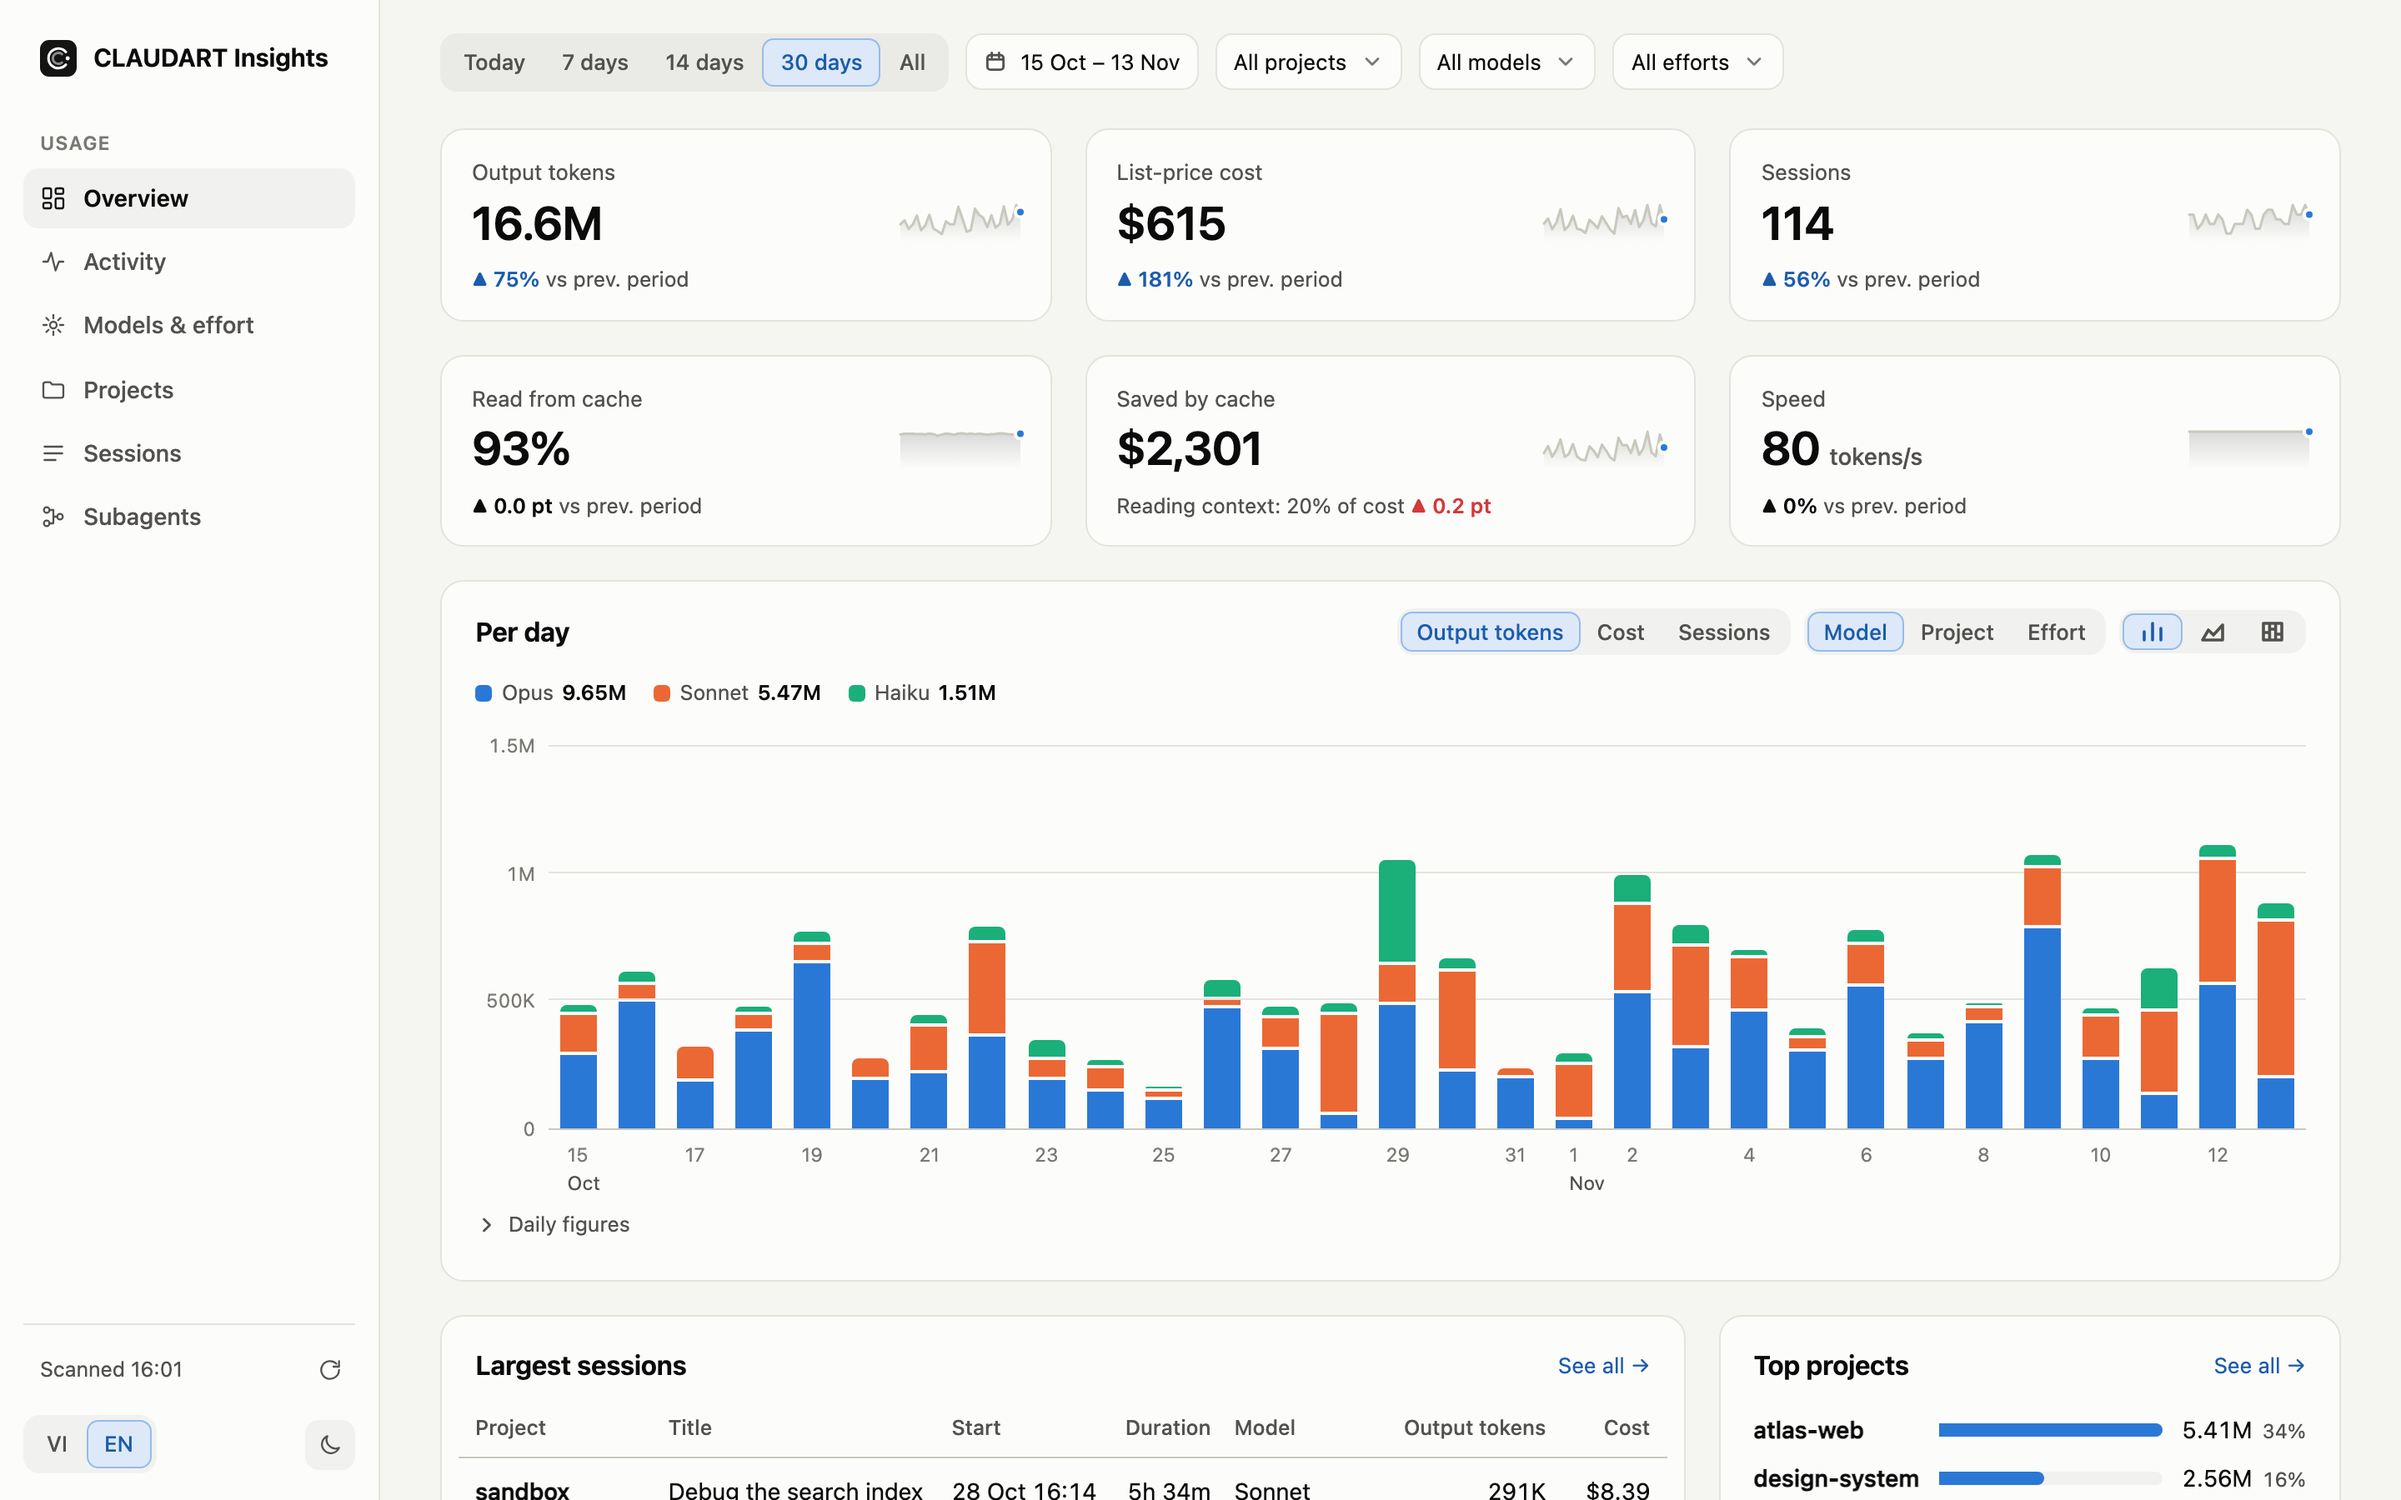
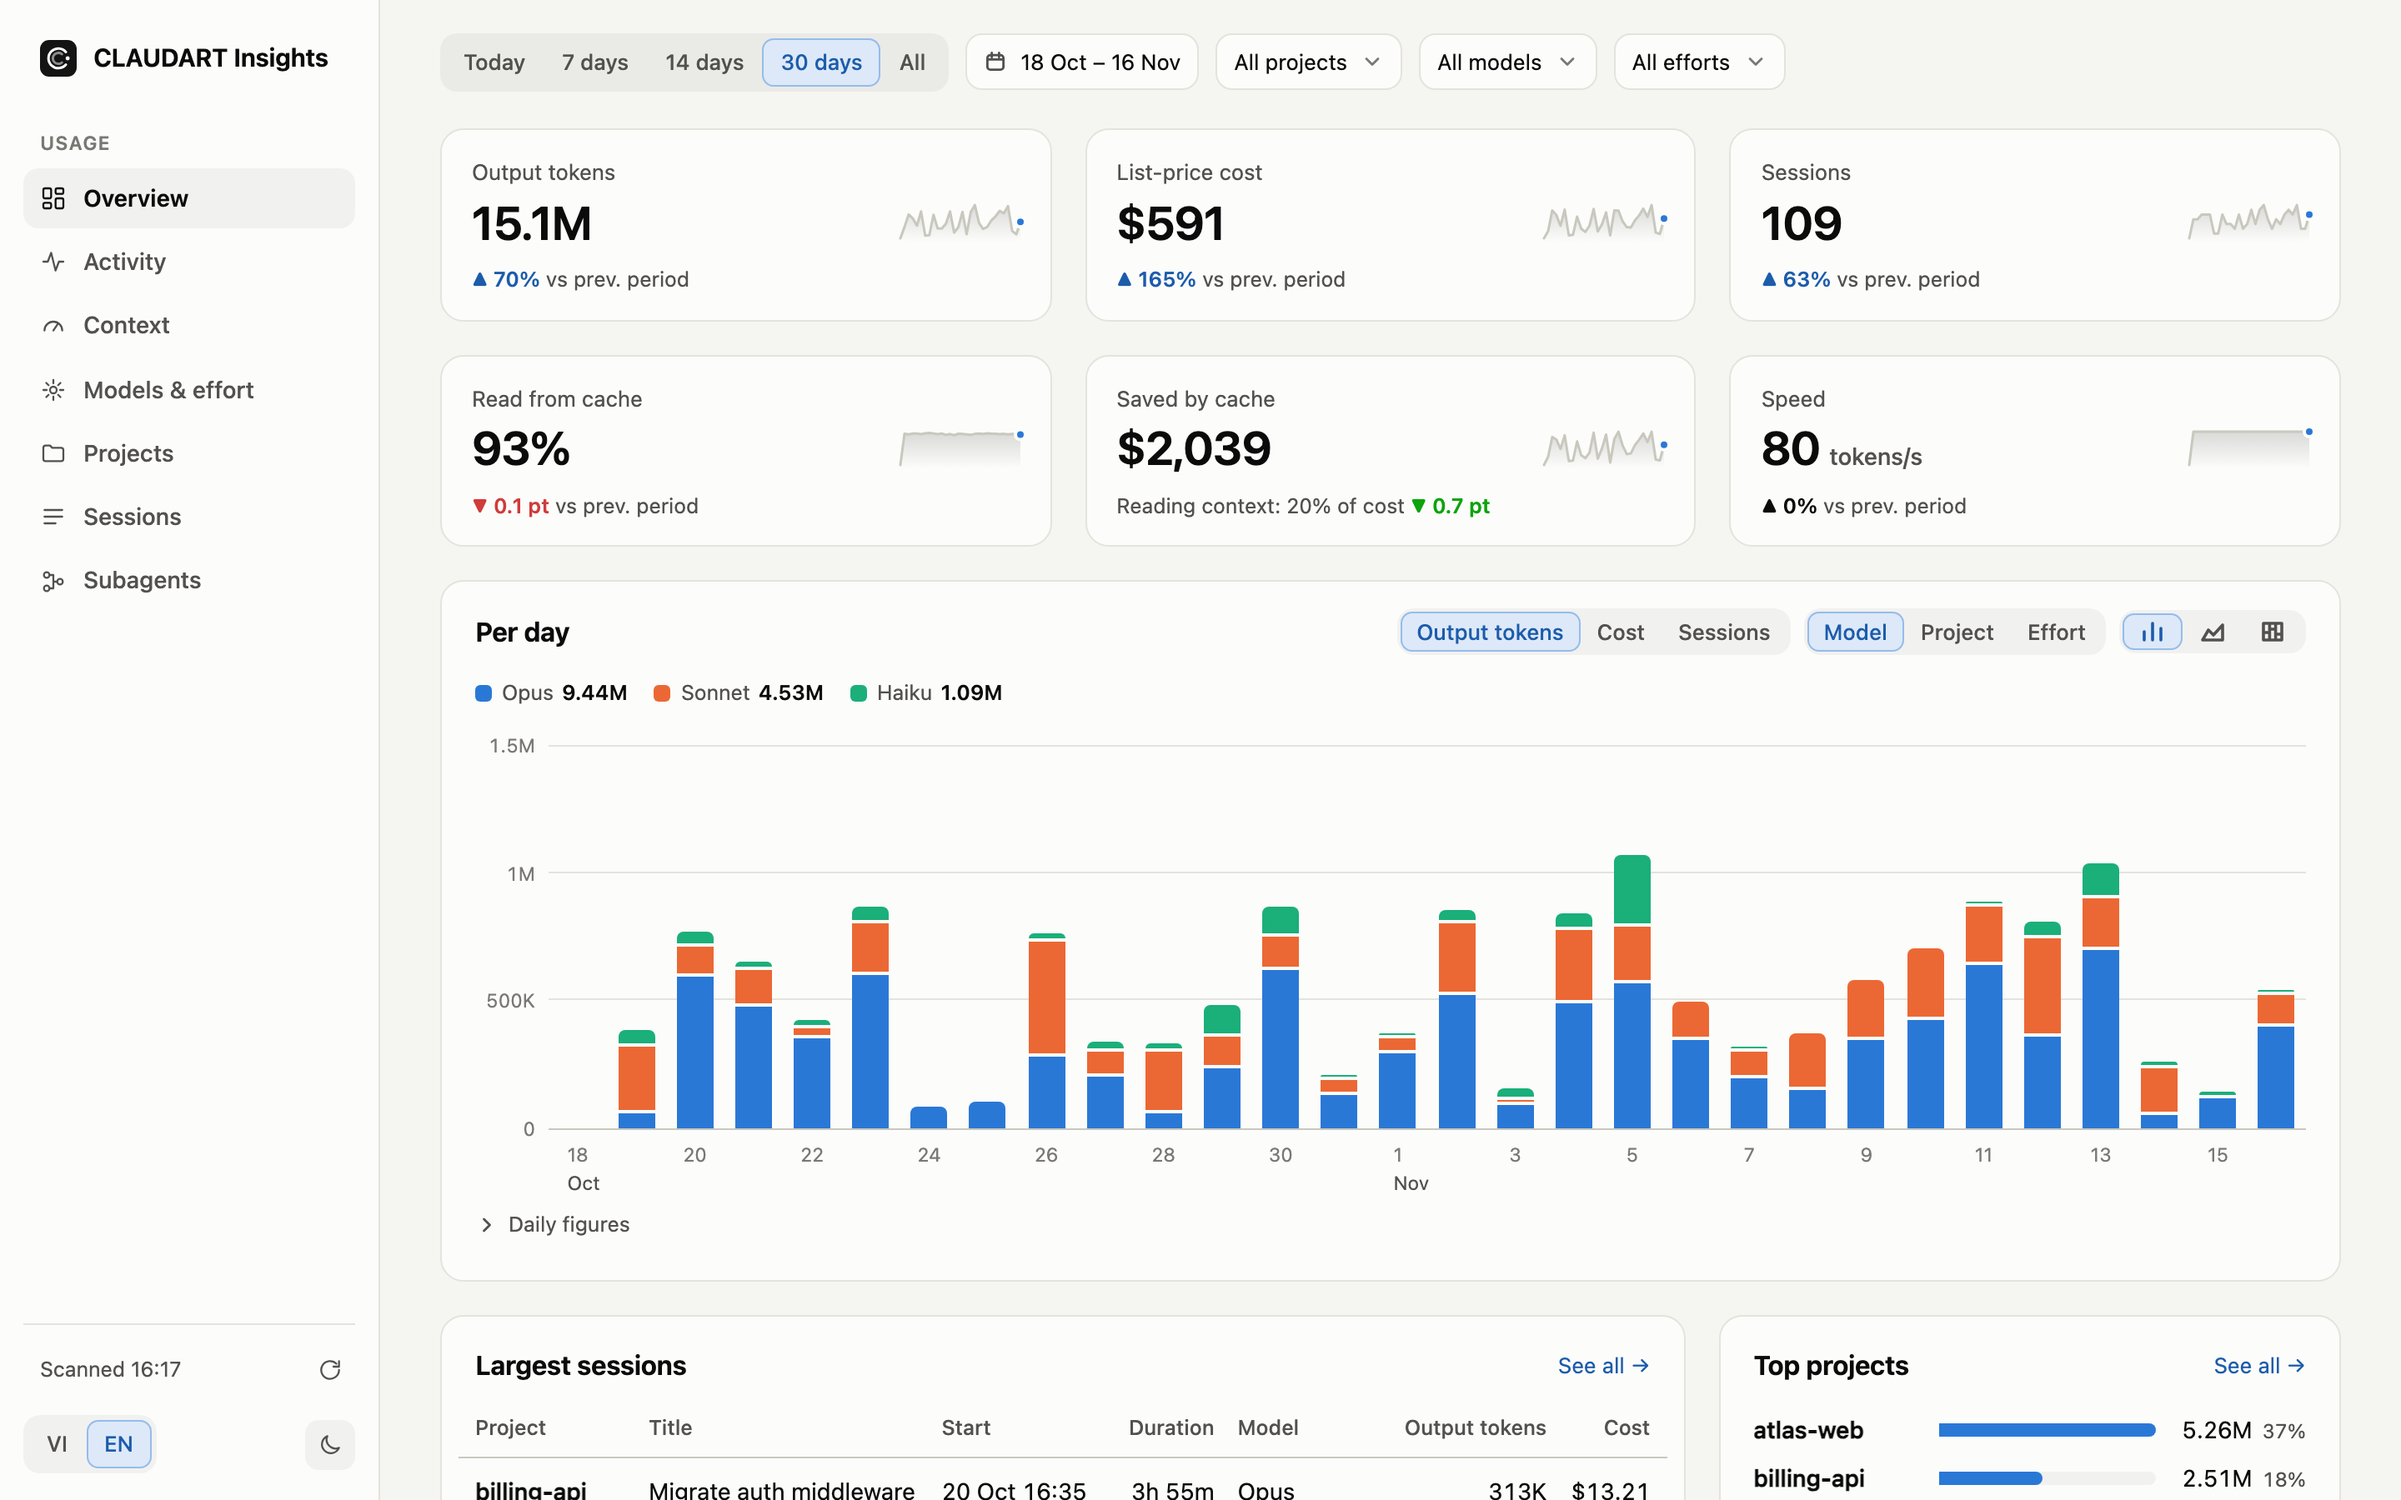
docs: describe the Context view and retake the README images
The demo now writes compaction boundaries and the hidden summary
requests, so make demo and make screenshots show the Context view.

diff --git a/README_VI.md b/README_VI.md
@@ -13,7 +13,7 @@
 
 <p align="center"><sub>Mọi con số trên trang này là dữ liệu demo bịa ra, do <code>make demo</code> phục vụ.</sub></p>
 
-Insights lưu trữ transcript mà Claude Code giữ trong `~/.claude/projects`, nạp vào SQLite và tính giá từng request. Sáu màn hình trả lời những gì con số tổng che đi: dự án nào tốn nhất, phiên nào kéo dài, model và subagent nào làm phần việc, và lúc nào prompt cache bị dựng lại vô ích.
+Insights lưu trữ transcript mà Claude Code giữ trong `~/.claude/projects`, nạp vào SQLite và tính giá từng request. Bảy màn hình trả lời những gì con số tổng che đi: dự án nào tốn nhất, phiên nào kéo dài, model và subagent nào làm phần việc, lúc nào prompt cache bị dựng lại vô ích, và context dài tốn bao nhiêu.
 
 Không có gì rời khỏi máy bạn. Server chỉ lắng nghe trên `127.0.0.1`, server và trang web đều không gửi request ra ngoài.
 
@@ -26,6 +26,15 @@ Mỗi lần prompt cache bị dựng lại tốn bao nhiêu và vì sao: phiên 
 <picture>
   <source media="(prefers-color-scheme: dark)" srcset="docs/assets/cache-dark.png">
   <img src="docs/assets/cache-light.png" alt="Số lần cache bị dựng lại theo nguyên nhân, kèm chi phí thêm">
+</picture>
+
+### Context
+
+Mỗi lần nén context tốn bao nhiêu, đọc lại context ở từng cỡ tốn bao nhiêu, và cùng phần việc đó sẽ tốn bao nhiêu nếu nén ở mốc khác.
+
+<picture>
+  <source media="(prefers-color-scheme: dark)" srcset="docs/assets/context-dark.png">
+  <img src="docs/assets/context-light.png" alt="Các phiên được chạy lại với mốc nén khác, so với mốc nén hiện tại">
 </picture>
 
 ### Dự án
@@ -127,7 +136,7 @@ Chi phí tính theo giá niêm yết. Với gói thuê bao, đó là hạn mức
 <details>
 <summary><b>Cache bị dựng lại</b></summary>
 
-Claude Code giữ cuộc trò chuyện trong prompt cache, nên phần lớn input token là lần đọc rẻ. Thứ tốn tiền là lần dựng lại: một request ghi phần lớn context vào cache lần nữa, đắt gấp 25 đến 40 lần đọc cache. Một request được tính là dựng lại khi ghi ít nhất 20.000 token vào cache và hơn một nửa tổng số token nó đọc hoặc ghi. Màn hình Hoạt động và lệnh `usage` đếm theo từng nguyên nhân:
+Claude Code giữ cuộc trò chuyện trong prompt cache, nên phần lớn input token là lần đọc rẻ. Thứ tốn tiền là lần dựng lại: một request ghi phần lớn context vào cache lần nữa, đắt gấp 25 đến 40 lần đọc cache. Một request được tính là dựng lại khi ghi ít nhất 20.000 token vào cache và hơn một nửa tổng số token nó đọc hoặc ghi, hoặc khi là request đầu tiên của luồng sau một lần nén context và ghi ít nhất 20.000 token. Màn hình Hoạt động và lệnh `usage` đếm theo từng nguyên nhân:
 
 | Nguyên nhân | Ý nghĩa |
 | --- | --- |
@@ -139,6 +148,19 @@ Claude Code giữ cuộc trò chuyện trong prompt cache, nên phần lớn inp
 Chi phí thêm của một lần dựng lại là số token được ghi lại tính theo giá ghi cache (5m và 1h như đã ghi nhận) trừ đi chính số token đó tính theo giá đọc cache, theo dòng giá hiệu lực trong ngày. Màn hình Phiên làm việc ghi số lần dựng lại sau khi nghỉ của mỗi phiên, là số lần cache hết hạn, dưới tiêu đề phiên.
 
 Không thể giải thích `khác` từ transcript. Ngưỡng 20.000 token và một nửa là quy ước cố định, không phải số Claude Code báo. Model không có dòng giá thì không có chi phí thêm, nhưng lần dựng lại vẫn được đếm.
+
+</details>
+
+<details>
+<summary><b>Nén context</b></summary>
+
+Claude Code nén cuộc trò chuyện khi context chạm một mốc do context window quyết định: nó viết một bản tóm tắt và luồng đi tiếp từ đó. Transcript ghi mỗi lần nén kèm context trước và sau, và thời gian nén; transcript cũ chỉ giữ bản tóm tắt thì lần nén vẫn được đếm, nhưng không có các số đó.
+
+Một lần nén tốn request viết bản tóm tắt cộng lần dựng lại cache ngay sau. Request viết tóm tắt không để lại bản ghi trong transcript, nên theo từng phiên và model, nó là phần token trong bản ghi chi phí của Claude Code vượt quá transcript, tính giá theo tỷ lệ của nó trong chi phí của bản ghi đó và chia đều cho các lần nén.
+
+Màn hình Context xếp chi phí đọc lại context theo context mà mỗi request mang. Chi phí Claude Code ghi nhận mà không có request nào đứng sau, như các request viết tóm tắt, có một dòng riêng, nên các dòng cộng lại bằng con số ở màn hình Tổng quan.
+
+Mốc nén hiện tại là trung vị của context trước năm lần nén tự động gần nhất của cuộc trò chuyện chính, theo từng họ model. Màn hình chạy lại mỗi cuộc trò chuyện chính ở các mốc khác: context tăng giữa các request như thực tế, và khi chạm mốc thì cuộc trò chuyện nén, trả chi phí một lần nén và bắt đầu lại từ phần mà một lần nén thật đã giữ lại. Đây là ước tính theo giá niêm yết. Phần đọc lại file sau mỗi lần nén chưa được tính, nên các mốc thấp hơn mốc hiện tại thực tế tốn hơn số hiện ra.
 
 </details>
 

diff --git a/README.md b/README.md
@@ -13,7 +13,7 @@
 
 <p align="center"><sub>Every figure on this page is made-up demo data, served by <code>make demo</code>.</sub></p>
 
-Insights archives the transcripts Claude Code keeps in `~/.claude/projects`, reads them into SQLite and prices every request. Six views answer what the totals hide: which project costs the most, which sessions ran long, which model and subagent did the work, and when the prompt cache was rebuilt for nothing.
+Insights archives the transcripts Claude Code keeps in `~/.claude/projects`, reads them into SQLite and prices every request. Seven views answer what the totals hide: which project costs the most, which sessions ran long, which model and subagent did the work, when the prompt cache was rebuilt for nothing, and what a long context costs.
 
 Nothing leaves your machine. The server listens on `127.0.0.1` only, and neither the server nor the page makes a network request.
 
@@ -26,6 +26,15 @@ What each rebuild of the prompt cache cost, and why it happened: a new session, 
 <picture>
   <source media="(prefers-color-scheme: dark)" srcset="docs/assets/cache-dark.png">
   <img src="docs/assets/cache-light.png" alt="Cache rebuilds by cause, with their extra cost">
+</picture>
+
+### Context
+
+What each compaction costs, what reading the context costs at each size, and what the same work would have cost had compaction fired at another point.
+
+<picture>
+  <source media="(prefers-color-scheme: dark)" srcset="docs/assets/context-dark.png">
+  <img src="docs/assets/context-light.png" alt="The same sessions replayed with compaction at other points, against where it fires now">
 </picture>
 
 ### Projects
@@ -127,7 +136,7 @@ Cost is list price. On a subscription it is quota spent, not money.
 <details>
 <summary><b>Cache rebuilds</b></summary>
 
-Claude Code keeps your conversation in a prompt cache, so most input tokens are cheap reads. What costs money is a rebuild: a request that writes most of the context into the cache again, 25 to 40 times the price of reading it. A request is a rebuild when it writes at least 20,000 tokens to the cache and more than half of everything it read or wrote. The Activity view and `usage` count them per cause:
+Claude Code keeps your conversation in a prompt cache, so most input tokens are cheap reads. What costs money is a rebuild: a request that writes most of the context into the cache again, 25 to 40 times the price of reading it. A request is a rebuild when it writes at least 20,000 tokens to the cache and more than half of everything it read or wrote, or when it is the first request of its thread after a compaction and writes at least 20,000 tokens. The Activity view and `usage` count them per cause:
 
 | Cause | Meaning |
 | --- | --- |
@@ -139,6 +148,19 @@ Claude Code keeps your conversation in a prompt cache, so most input tokens are 
 The extra cost of a rebuild is the rewritten tokens priced as cache writes (5m and 1h as recorded) minus the same tokens priced as reads, from the price row in force that day. The Sessions view counts the idle rebuilds of each session as cache lapses, under its title.
 
 `other` cannot be explained from transcripts. The 20,000-token and one-half thresholds are a fixed convention, not something Claude Code reports. A model without a price row has no extra cost, and its rebuilds are counted without one.
+
+</details>
+
+<details>
+<summary><b>Compaction and the context</b></summary>
+
+Claude Code compacts a conversation when its context reaches a point set by the context window: it writes a summary and the thread goes on from it. The transcript records each compaction with the context before and after it and how long it took; an older transcript that kept only the summary still counts the compaction, without those figures.
+
+One compaction costs the request that writes the summary plus the cache rebuild after it. The summary request leaves no record in the transcript, so per session and model it is the tokens in Claude Code's cost record beyond the transcript's, priced as their share of that record's cost and split evenly over the compactions.
+
+The Context view sorts the cost of reading the context by the context each request carried. Cost that Claude Code recorded with no request behind it, such as the summary requests, has a row of its own, so the rows add up to the Overview's.
+
+Where compaction fires now is the median context before the last five automatic compactions of the main conversation, per model family. The view replays each main conversation at other points: the context grows between requests as it did, and when it reaches the point the conversation compacts, pays one compaction and starts again from what a real compaction kept. It is an estimate at list prices. Files read again after a compaction are not counted, so points below the current one cost more than shown.
 
 </details>
 

diff --git a/CLAUDE.md b/CLAUDE.md
@@ -25,7 +25,7 @@ Run `make test` and `make check` after every change; `make build` when the dashb
 | `src/providers/` | One module per transcript source; `claude.mjs` knows the Claude Code format, `index.mjs` lists them |
 | `src/archive.mjs`, `src/scan.mjs` | Append-only copy of each provider's transcripts under `data/archive/<provider>/`, then ingest |
 | `src/db.mjs` | Schema of `data/usage.db`; bump `SCHEMA_VERSION` on any change and the database is rebuilt from the archive |
-| `src/derive.mjs`, `src/usage.mjs`, `src/prices.mjs`, `src/effort.mjs`, `src/rebuilds.mjs` | Per-session values, usage rows and groupings, cost from `prices.md`, cache rebuilds per request |
+| `src/derive.mjs`, `src/usage.mjs`, `src/prices.mjs`, `src/effort.mjs`, `src/rebuilds.mjs`, `src/context.mjs` | Per-session values, usage rows and groupings, cost from `prices.md`, cache rebuilds per request, compactions and the context replay |
 | `src/dashboard.mjs`, `src/api.mjs`, `src/serve.mjs` | Rows for the page, the JSON API (`/api/data`, `/api/scan`), the local server |
 | `dashboard/` | Vite + React + TypeScript app; one file per view in `dashboard/src/views/`, strings in `i18n.tsx` (English and Vietnamese) |
 | `dashboard/src/extra.ts`, `dashboard/src/index.ts` | How another app embeds the dashboard with views of its own |
